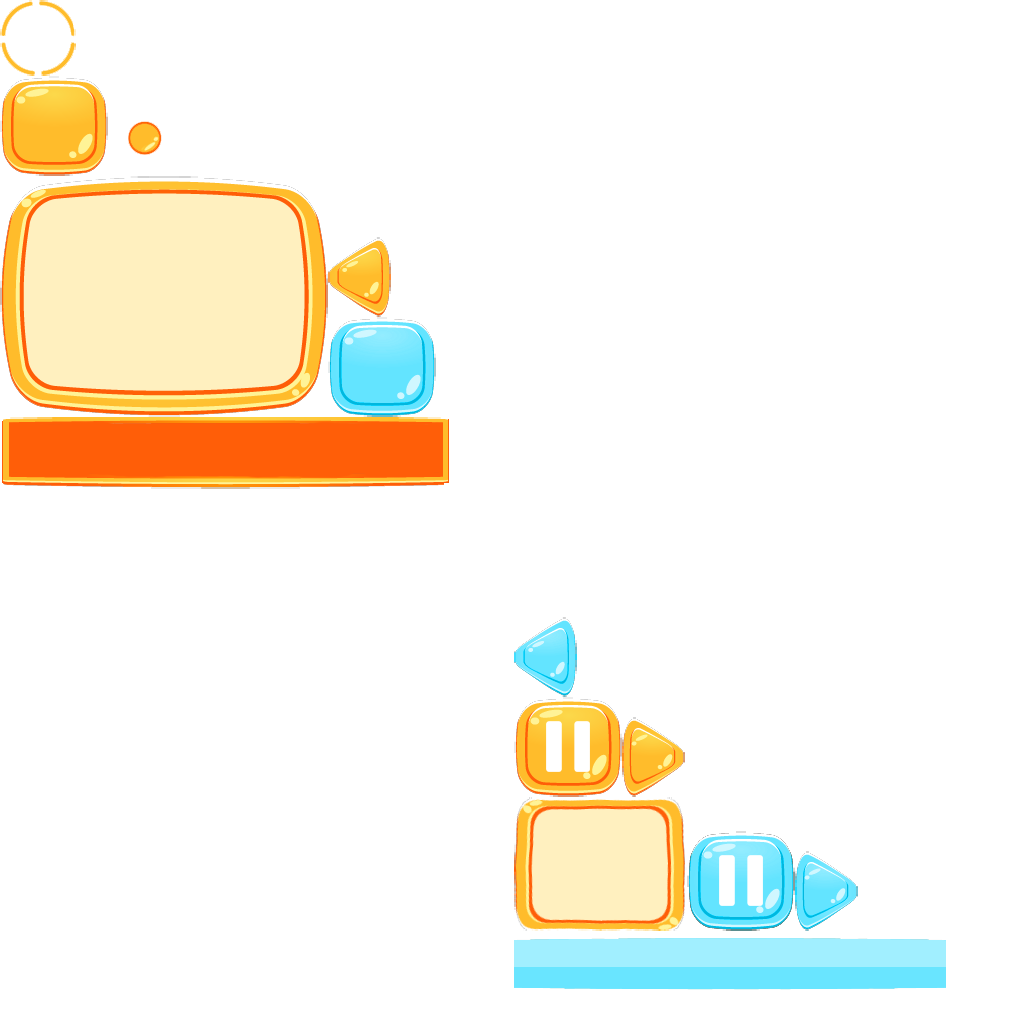
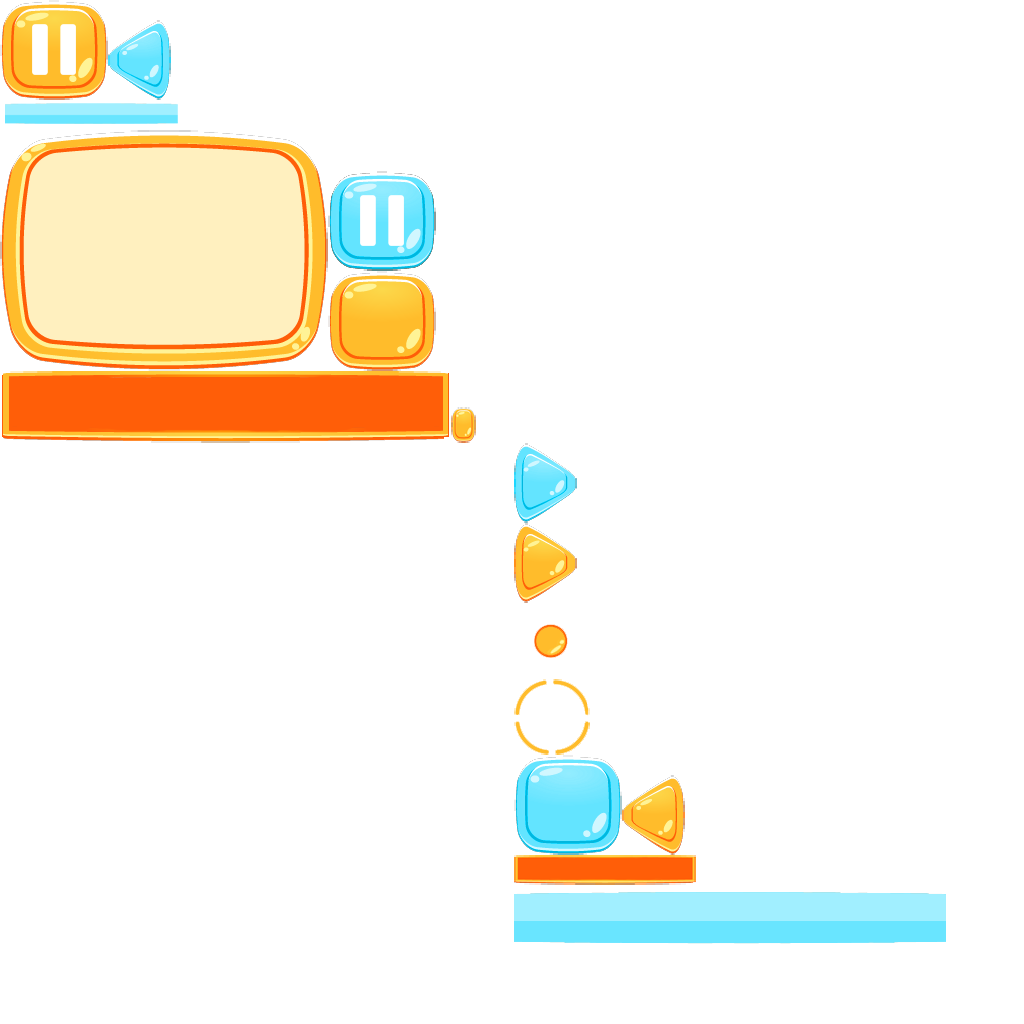
Options screen skin added

Changed region(s): [[0.0, 0.0, 0.4688, 0.5], [0.5, 0.4375, 0.9375, 0.9688]]

diff --git a/core/src/com/mygdx/forkliftaone/screens/options/OptionsScreen.java b/core/src/com/mygdx/forkliftaone/screens/options/OptionsScreen.java
@@ -9,6 +9,7 @@ import com.badlogic.gdx.scenes.scene2d.ui.Table;
 import com.badlogic.gdx.scenes.scene2d.ui.TextButton;
 import com.badlogic.gdx.scenes.scene2d.ui.TextField;
 import com.badlogic.gdx.scenes.scene2d.utils.ClickListener;
+import com.badlogic.gdx.utils.Align;
 import com.mygdx.forkliftaone.ForkLiftGame;
 import com.mygdx.forkliftaone.screens.market.MarketScreen;
 import com.mygdx.forkliftaone.screens.menu.MenuScreen;
@@ -34,8 +35,8 @@ public class OptionsScreen extends MenuScreenBase {
 
     @Override
     protected Actor createUi() {
-//        skin = new Skin(Gdx.files.internal("custom/CustomSkinUI.json"));
-        skin = new Skin(Gdx.files.internal("neon/neon-ui.json"));
+        skin = new Skin(Gdx.files.internal("custom/CustomSkinUI.json"));
+//        skin = new Skin(Gdx.files.internal("neon/neon-ui.json"));
         table = new Table();
 
         slider = new Slider(0, 1f, 0.1f, false, skin);
@@ -64,13 +65,13 @@ public class OptionsScreen extends MenuScreenBase {
         TextField musicText = new TextField("Music volume", skin);
         TextField soundText = new TextField("Sound volume", skin);
 
-        table.add(musicText);
+        table.add(musicText).padBottom(30).width(1200/5);
         table.row();
-        table.add(slider);
+        table.add(slider).padBottom(30).width(1200/5);
         table.row();
-        table.add(soundText);
+        table.add(soundText).padBottom(30).width(1200/5);
         table.row();
-        table.add(soundSlider);
+        table.add(soundSlider).padBottom(30).width(1200/5);
         table.row();
         table.add(saveButton);
 

diff --git a/core/src/com/mygdx/forkliftaone/screens/menu/MenuScreen.java b/core/src/com/mygdx/forkliftaone/screens/menu/MenuScreen.java
@@ -83,21 +83,20 @@ public class MenuScreen extends MenuScreenBase {
             }
         });
 
-        table.add(startButton).padBottom(30);
+        table.add(startButton).padBottom(15).height((1200/ratio)/6);
         table.row();
-        table.add(marketButton).padBottom(30);
+        table.add(marketButton).padBottom(15).height((1200/ratio)/6);
         table.row();
-        table.add(donateButton).padBottom(30);
+        table.add(donateButton).padBottom(15).height((1200/ratio)/6);
         table.row();
-        table.add(optionsButton).padBottom(30);
+        table.add(optionsButton).padBottom(15).height((1200/ratio)/6);
         table.row();
-        table.add(quitButton);
+        table.add(quitButton).height((1200/ratio)/6);
         table.debug();
 
         Table main = new Table();
         main.add(table).padTop(20f).padRight(20f).padLeft(20f).fill();
-        main.row();
-//        main.debug();
+        main.debug();
         main.setFillParent(true);
 
         return main;

diff --git a/core/src/com/mygdx/forkliftaone/config/GameConfig.java b/core/src/com/mygdx/forkliftaone/config/GameConfig.java
@@ -8,7 +8,7 @@ public class GameConfig {
     }
 
     public static final float WIDTH = 800f; // pixels
-    public static final float HEIGHT = 480f; // pixels
+    public static final float HEIGHT = 400f; // pixels
 //    public static final float WIDTH = (Gdx.graphics.getWidth());
 //    public static final float HEIGHT = (Gdx.graphics.getHeight());
 
